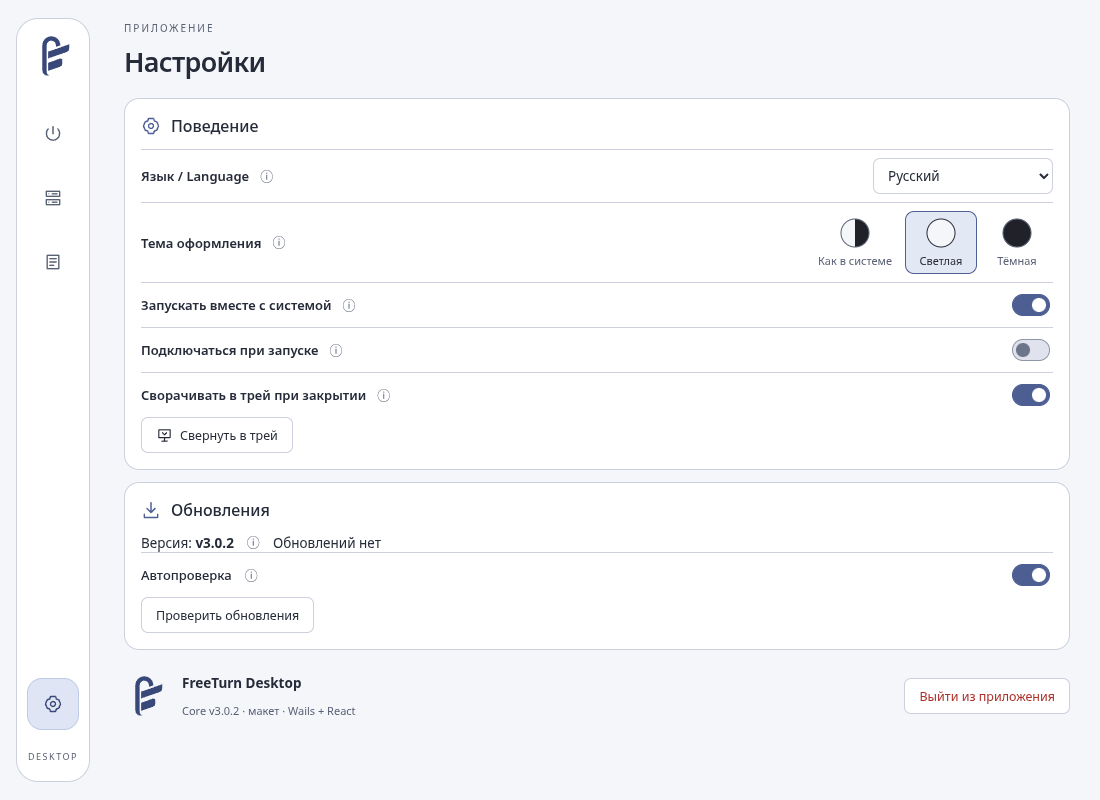
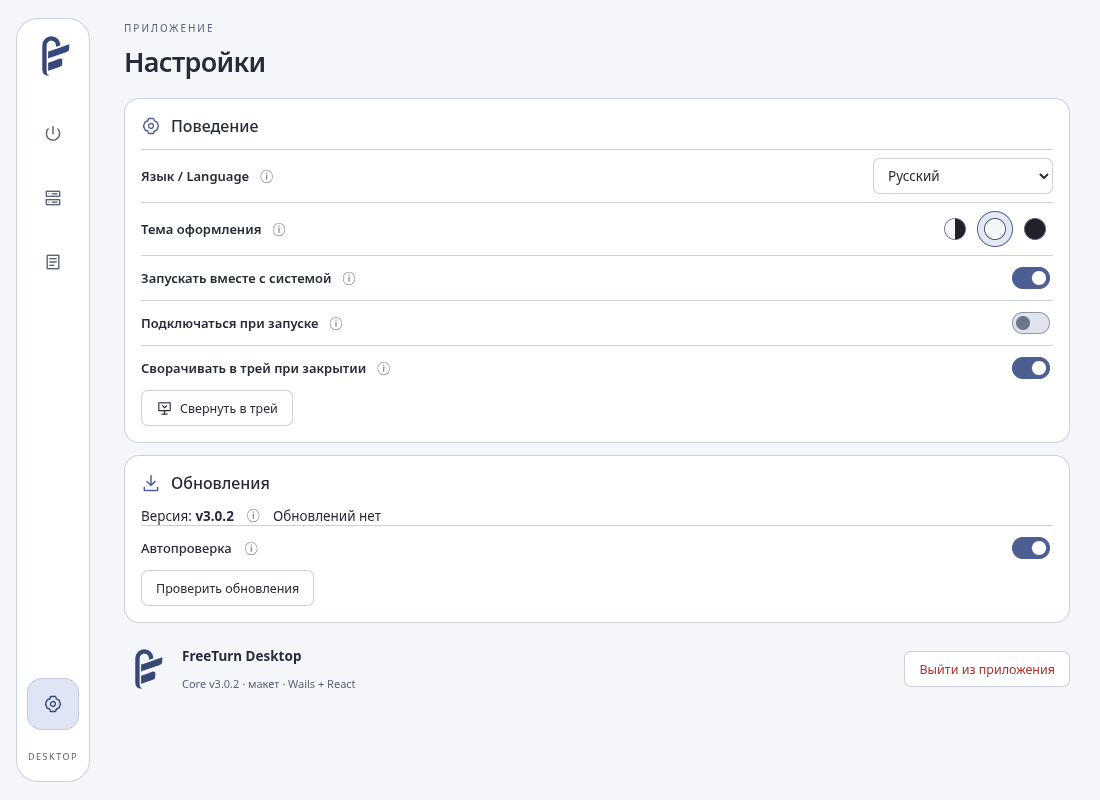
Finalize compact theme swatches and prepare desktop v3.0.4

diff --git a/desktop/frontend/src/components/ThemePicker.tsx b/desktop/frontend/src/components/ThemePicker.tsx
@@ -12,16 +12,15 @@ export default function ThemePicker({value, disabled, onChange}: {
     {value:'dark', label:tr('Тёмная', 'Dark')},
   ]
   return <div className="theme-options" role="radiogroup" aria-label={tr('Тема оформления', 'Appearance')}>
-    {choices.map(choice => <label className="theme-option" key={choice.value}>
+    {choices.map(choice => <label className="theme-option" key={choice.value} title={choice.label}>
       <input id={`interface-theme-${choice.value}`} className="sr-only" type="radio" name="interface-theme"
-        value={choice.value} checked={value===choice.value} disabled={disabled} onChange={()=>onChange(choice.value)} />
+        value={choice.value} aria-label={choice.label} checked={value===choice.value} disabled={disabled} onChange={()=>onChange(choice.value)} />
       <span className="theme-choice">
-        <svg className="theme-swatch" viewBox="0 0 32 32" width="32" height="32" aria-hidden="true">
+        <svg className="theme-swatch" viewBox="0 0 32 32" width="24" height="24" aria-hidden="true">
           <circle cx="16" cy="16" r="14" fill={choice.value==='dark'?'#1b1c24':'#f5f6fa'} />
           {choice.value==='system'&&<path d="M16 2a14 14 0 0 1 0 28Z" fill="#1b1c24" />}
           <circle cx="16" cy="16" r="14" fill="none" stroke="currentColor" />
         </svg>
-        <span>{choice.label}</span>
       </span>
     </label>)}
   </div>

diff --git a/desktop/frontend/src/style.css b/desktop/frontend/src/style.css
@@ -1631,7 +1631,7 @@ button:disabled {
 .theme-row { flex-wrap: wrap; }
 .theme-options { display: flex; flex-wrap: wrap; gap: 4px; }
 .theme-option { position: relative; cursor: pointer; }
-.theme-choice { display: flex; align-items: center; flex-direction: column; gap: 4px; min-width: 72px; min-height: 44px; padding: 5px 8px; border: 1px solid transparent; border-radius: 9px; color: var(--text-dim); font-size: 11px; }
+.theme-choice { display: flex; align-items: center; justify-content: center; width: 36px; height: 36px; padding: 5px; border: 1px solid transparent; border-radius: 50%; color: var(--text-dim); }
 .theme-swatch { display: block; flex-shrink: 0; }
 .theme-option input:checked + .theme-choice { color: var(--text); border-color: var(--accent); background: var(--accent-dim); }
 .theme-option:hover .theme-choice { border-color: var(--accent); }

diff --git a/RELEASE_NOTES_DESKTOP.md b/RELEASE_NOTES_DESKTOP.md
@@ -1,26 +1,26 @@
-# FreeTurn Desktop v3.0.3
+# FreeTurn Desktop v3.0.4
 
-## Интерфейс и удобство
+## DNS при повторном подключении
 
-- Новый логотип приложения, плоский знак в интерфейсе и монохромные значки трея для Windows, Linux и macOS.
-- Настройки профиля разделены на подключение и производительность. Расширенные параметры, маршрутизация, управление VPS и CLI доступны в сворачиваемых разделах; существующие параметры и профили сохранены.
-- Связанные ползунки «TURN-потоков (-n)» и «Потоков на аккаунт»: `-n` задаёт потоки на каждую ссылку, рядом показано суммарное число. Уменьшение `-n` при необходимости снижает второй параметр, увеличение не меняет его автоматически. Допустимы неполные группы; расширенные значения импортированных профилей не обрезаются при открытии.
-- Поля, списки и соседние кнопки приведены к единой высоте. Добавлены подсказки, тематические скроллбары и более компактные настройки приложения; сохранён системный высококонтрастный режим.
-- При включении VPN из настроек сразу отображаются подготовка и отмена, ещё до первого состояния от ядра. Повторное нажатие не запускает второй запрос; отмена во время сохранения не запускает подключение позже.
+- Подготовка VPN больше не наследует глобальный DNS-резолвер предыдущей сессии. Адреса VPN-сервера и домены списков маршрутизации разрешаются с учётом DNS-настроек текущего профиля.
+- В режиме Auto сначала используется системный DNS либо явно заданные резолверы. При сбое основного пути, в том числе таймауте, подготовка переходит на DoH; успешный предыдущий запрос не отключает этот резервный путь.
+- В режимах plain и doh автоматического переключения на другой режим нет. Ответ «домен не найден» не обходится через резервный резолвер. Если разрешение имён не удалось, подключение прерывается, а не запускается с неполным списком маршрутов.
+- Отмена сохраняется, системные DNS-настройки и параметры VPS не изменяются. Исправление не гарантирует доступность DNS или сервера в любой сети.
 
-## Мастер SSH и безопасность действий
+## Светлая, тёмная и системная темы
 
-- Исправлена вёрстка выбора существующего контейнера: короткие пункты списка, перенос длинных метаданных и доступные кнопки в небольшом окне.
-- При несовпадении адресов ссылки и SSH предлагается явный выбор адреса или ручной ввод. При совпадении дополнительный шаг не нужен. Настройки VPS и ключи автоматически не переписываются.
-- Модальное окно удерживает клавиатурный фокус, возвращает его после закрытия и сбрасывает прокрутку при смене шага.
-- Локальное действие явно называется «Удалить профиль» и недоступно для подключённого профиля. Перезапуск и остановка VPS требуют подтверждения; удаление общей Docker-установки из интерфейса отключено.
-- Приватные конфигурации скрыты по умолчанию. CLI-команда сопровождается предупреждением и кнопкой копирования; запоздавший ответ не показывается после смены профиля или состояния сохранения.
-- Обновлены русская и английская локализации, README и демонстрационные снимки.
+- По умолчанию выбрано «Как в системе» — также при обновлении настроек без сохранённой темы. Режим автоматически реагирует на смену темы ОС.
+- В настройках — три компактных цветных кружка: системный, светлый и тёмный. Названия доступны во всплывающих подсказках; выбранный вариант выделен обводкой. Поддерживаются клавиатура и экранные дикторы.
+- Оформление применяется сразу и сохраняется между запусками, без переподключения VPN. Адаптированы поля, списки, журналы, подсказки, уведомления, скроллбары, состояния подключения и логотип.
+- Уменьшены промежутки между пунктами настроек и отступы карточек. Высота полей и кнопок сохранена.
+
+## Импорт профиля
+
+- Если владелец включил ссылку VK Calls в профиль, она сразу отображается при импорте с пояснением. После импорта её можно изменить в настройках профиля.
+- Если ссылки внутри нет, остаётся поле для собственной ссылки. Запоздавший результат разбора предыдущего профиля больше не восстанавливает старую ссылку или ошибку.
 
 ## Совместимость и проверка
 
-Единый выпуск: Linux amd64, Windows amd64, macOS Apple Silicon и Intel. Сохранены нативные Linux helper, Windows Wintun, macOS utun/launchd helper, DTLS pinning, anti-replay, маршрутизация и независимая обработка captcha. Сетевая логика распределения потоков не меняется; добавлен регрессионный тест отдельных cache-групп для нескольких ссылок.
-
-Профили остаются в прежних каталогах. Клиенты v3.0.0–v3.0.2 обновляются напрямую из этого репозитория. Изменение параметров в форме не перенастраивает уже работающий VPN автоматически: сохраните профиль и переподключитесь.
+Сохранены существующие профили, ключи, маршрутизация, нативные Linux helper, Windows Wintun и macOS utun/launchd helper. Доступны Linux amd64, Windows amd64, macOS Apple Silicon и Intel. Обновление с v3.0.0–v3.0.3 — напрямую через этот репозиторий.
 
 Публикация требует успешных четырёх нативных сборок, тестов и проверки SHA-256 архивов. Браузерные проверки интерфейса используют демонстрационные данные и не заменяют живую VPN-проверку в каждой ОС. macOS-сборки имеют ad-hoc подпись, без Developer ID notarization.
